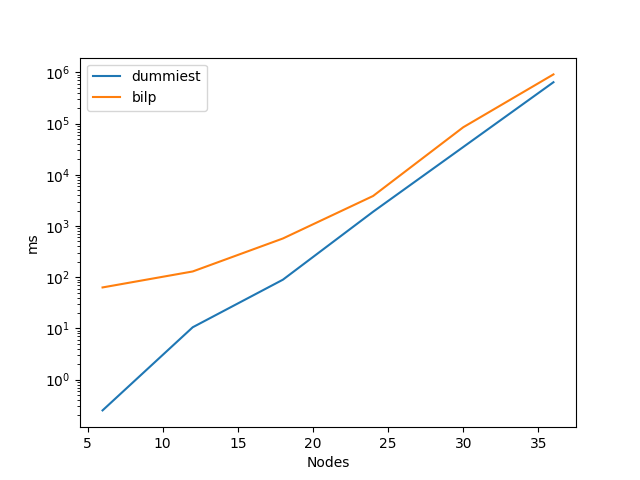
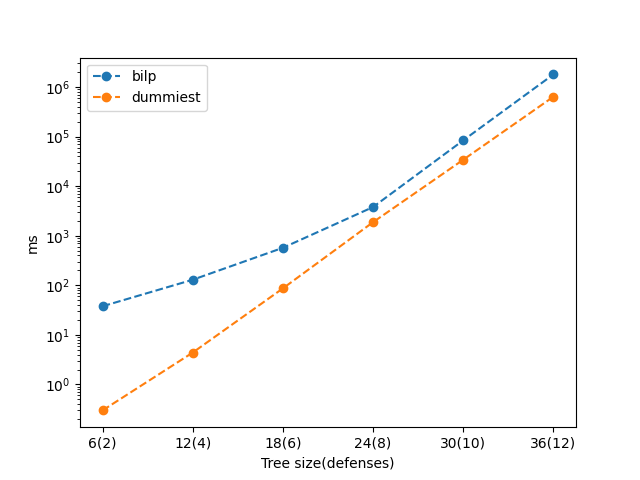
better graph benchmark 36

diff --git a/bu.py b/bu.py
@@ -6,8 +6,9 @@ from adtrees.basic_assignment import BasicAssignment
 from copy import deepcopy
 
 
-min_cost_attr = AttrDomain(min, sum, min, sum, 0, float('inf'))
- 
+min_cost_attr = AttrDomain(min, sum, min, sum, 0, float("inf"))
+
+
 def measure_bu(T, ba):
     _T = deepcopy(T)
     _ba = deepcopy(ba)
@@ -22,7 +23,7 @@ def measure_dummy_bu(T, ba):
     _ba = deepcopy(ba)
     t = timeit.Timer(lambda: min_cost_attr.evaluate_dummy_bu(_T, _ba, False))
     time = round(t.timeit(1) / 1 * 1000, 2)
-    return time    
+    return time
 
 
 def measure_dummiest(T, ba):
@@ -35,20 +36,26 @@ def measure_dummiest(T, ba):
 
 def run(method, filepath):
     T = ADTree(filepath)
-    print(f'Tree size: {T.subtree_size()} (defenses: {len(T.get_basic_actions('d'))}, attacks: {len(T.get_basic_actions('a'))})')
+    tree_size = T.subtree_size()
+    defense_count = len(T.get_basic_actions("d"))
+    attack_count = len(T.get_basic_actions("a"))
+    print(
+        f"Tree size: {tree_size} (defenses: {defense_count}, attacks: {attack_count})"
+    )
     ba = BasicAssignment(filepath)
-    if method=='dummiest':
+    if method == "dummiest":
         time = measure_dummiest(T, ba)
-    elif method=='dummy-bu':
+    elif method == "dummy-bu":
         time = measure_dummy_bu(T, ba)
-    elif method=='bu':
+    elif method == "bu":
         time = measure_bu(T, ba)
-    
-    return time
+
+    return time, tree_size, defense_count, attack_count
+
 
 if __name__ == "__main__":
-    # for i in [6,12,18,24,30]:    
-    #     time = run('dummiest', f'./trees_w_assignments/thesis_tree_{i}.xml')
+    # for i in [6,12,18,24,30]:
+    #     time,_,_,_ = run('dummiest', f'./trees_w_assignments/thesis_tree_{i}.xml')
     #     print(f'Time: {time} ms\n')
 
-    run('dummiest', './trees_w_assignments/thesis_tree_36.xml')
+    run("dummiest", "./trees_w_assignments/thesis_tree_36.xml")

diff --git a/bilp.py b/bilp.py
@@ -13,6 +13,18 @@ from util.util import remove_low_att_pts, remove_dominated_pts
 
 init(autoreset=True)
 
+
+def warmup_bilp():
+    m = Model("warmup")
+    x = m.addVar(vtype=GRB.BINARY)
+    y = m.addVar(vtype=GRB.BINARY)
+    obj = 2 * x + 3 * y
+    m.setObjective(-obj)  # maximize
+    m.addConstr(x >= y)
+    m.setParam(GRB.Param.OutputFlag, 0)
+    m.optimize()
+
+
 def get_model(T: ADTree, ba: BasicAssignment):
     m = Model("bilp")
 
@@ -252,13 +264,18 @@ def no_good_cut_method(m, defense_cost):
         else:
             _printif("Duplicate solution found, terminating...")
             break
-        
+
     return results
 
 
 def run(filepath):
     T = ADTree(filepath)
-    print(f'Tree size: {T.subtree_size()} (defenses: {len(T.get_basic_actions('d'))}, attacks: {len(T.get_basic_actions('a'))})')
+    tree_size = T.subtree_size()
+    defense_count = len(T.get_basic_actions("d"))
+    attack_count = len(T.get_basic_actions("a"))
+    print(
+        f"Tree size: {tree_size} (defenses: {defense_count}, attacks: {attack_count})"
+    )
     ba = BasicAssignment(filepath)
 
     start = timer()
@@ -272,15 +289,15 @@ def run(filepath):
 
     _printif(Fore.RED + f"Removed {list(set(results) - set(results_pf))}")
     print(results_pf)
-    time = round((timer() - start)*1000, 2)
-    return time
+    time = round((timer() - start) * 1000, 2)
+    return time, tree_size, defense_count, attack_count
 
 
 PRINT_PROGRESS = False
 
 if __name__ == "__main__":
     # for i in [6, 12, 18, 24, 30]:
-    #     time = run(f"./trees_w_assignments/thesis_tree_{i}.xml")
+    #     time,_,_,_ = run(f"./trees_w_assignments/thesis_tree_{i}.xml")
     #     print(f'Time: {time} ms\n')
 
     run(f"./trees_w_assignments/thesis_tree_18.xml")

diff --git a/benchmark.py b/benchmark.py
@@ -1,24 +1,28 @@
-from cProfile import label
 import threading
 import matplotlib.pyplot as plt
 
 from bu import run as run_bu
-from bilp import run as run_bilp
+from bilp import run as run_bilp, warmup_bilp
 
 x = [6, 12, 18, 24, 30, 36]
-dummiest = []
+x_labels = []
+dummiest_values = []
 bilp_values = []
 
 
 def eval_dummiest():
     for i in x:
-        time_bu = run_bu("dummiest", f"./trees_w_assignments/thesis_tree_{i}.xml")
-        dummiest.append(time_bu)
+        time_bu, tree_size, def_size, att_size = run_bu(
+            "dummiest", f"./trees_w_assignments/thesis_tree_{i}.xml"
+        )
+        x_labels.append(f"{tree_size}({def_size})")
+        dummiest_values.append(time_bu)
 
 
 def eval_bilp():
+    warmup_bilp()
     for i in x:
-        time_bilp = run_bilp(f"./trees_w_assignments/thesis_tree_{i}.xml")
+        time_bilp, _, _, _ = run_bilp(f"./trees_w_assignments/thesis_tree_{i}.xml")
         bilp_values.append(time_bilp)
 
 
@@ -32,10 +36,12 @@ t1.join()
 t2.join()
 
 plt.yscale("log")
-plt.xlabel("Nodes")
+plt.xlabel("Tree size(defenses)")
+plt.xticks(x, x_labels)
 plt.ylabel("ms")
-plt.plot(x, dummiest, label="dummiest")
-plt.plot(x, bilp_values, label="bilp")
+plt.plot(x, bilp_values, linestyle="--", marker="o", label="bilp")
+plt.plot(x, dummiest_values, linestyle="--", marker="o", label="dummiest")
 plt.legend(loc="best")
 plt.savefig("benchmark.png")
+
 # plt.show()
